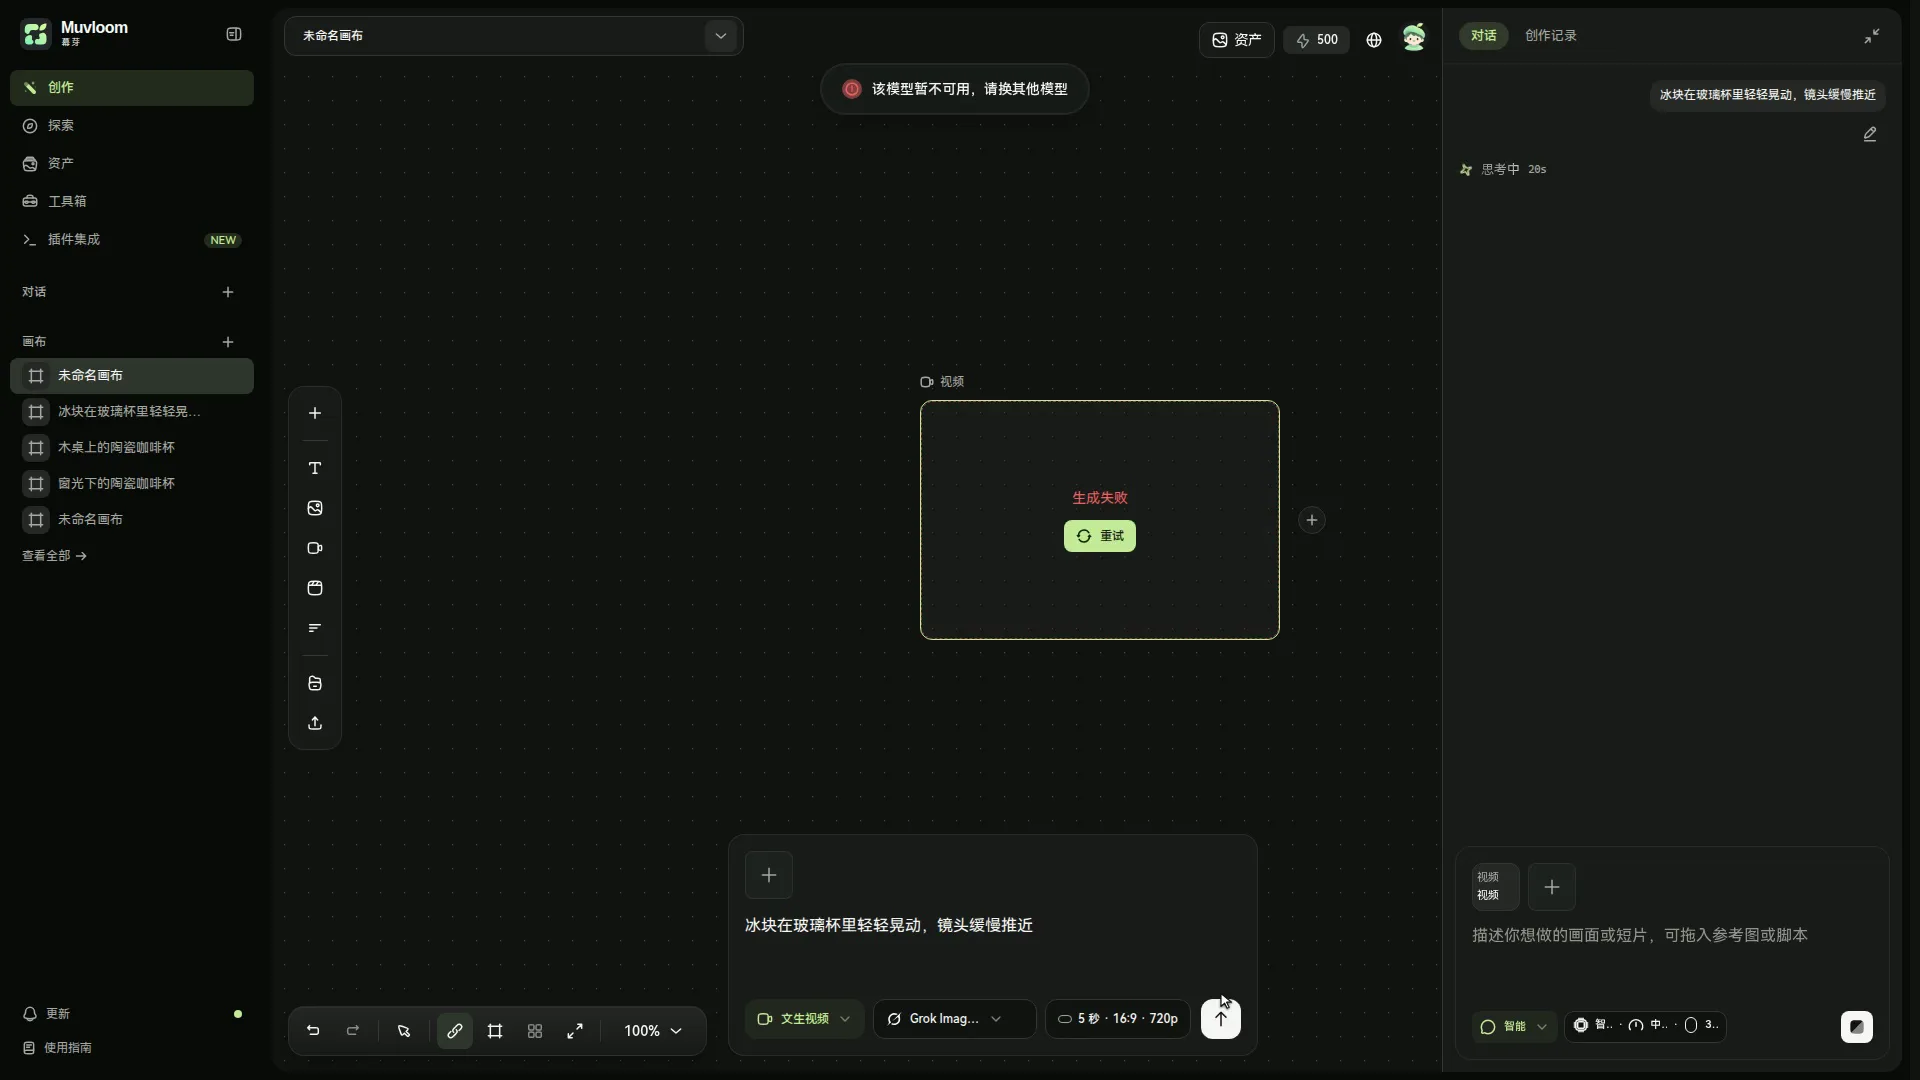
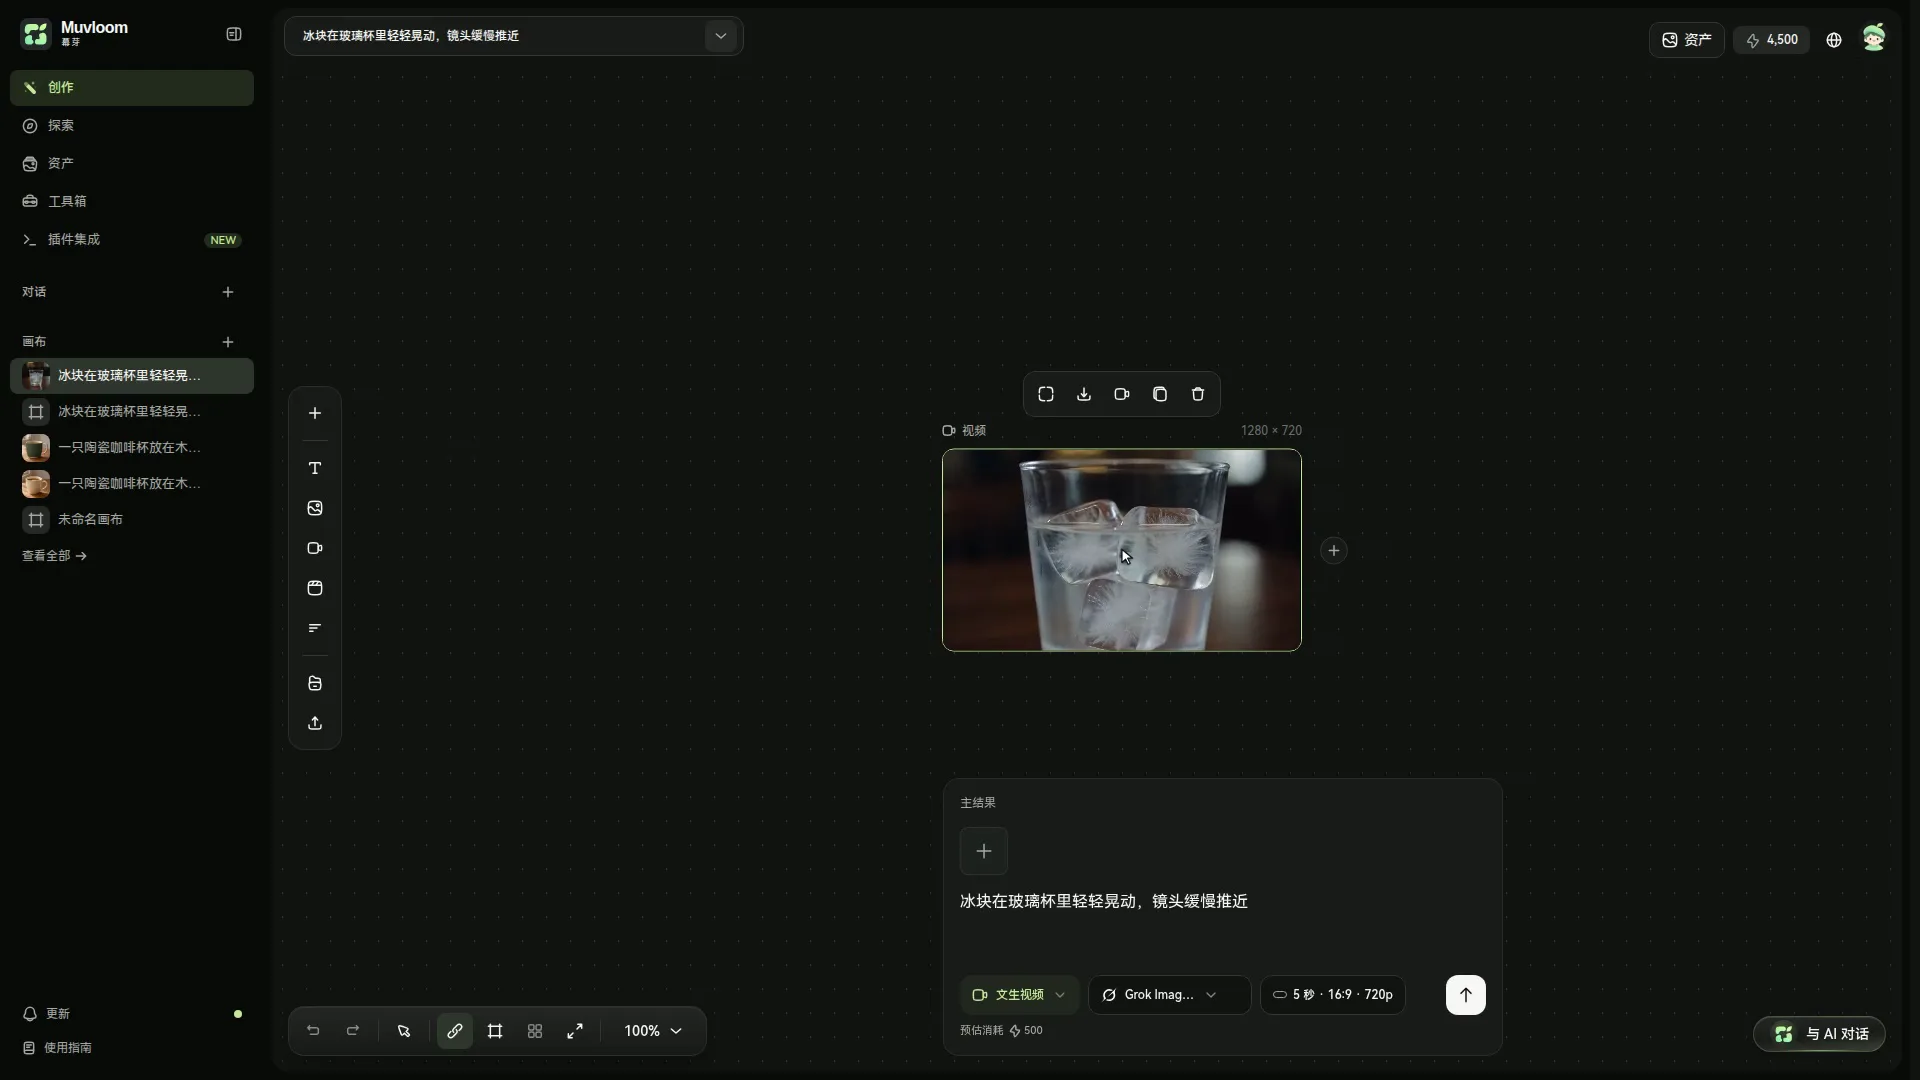
docs(web): 用测试环境真实出片替换视频演示
Grok Imagine Video 1.5 Lite 文生视频已生成并在画布上播放。指南页改为这次的请求和画面，不再把失败留证当成当前成片。

diff --git a/apps/web/src/features/guide/content/en.ts b/apps/web/src/features/guide/content/en.ts
@@ -722,7 +722,7 @@ const skills: GuidePage = {
 const videoPage: GuidePage = {
   id: 'video',
   title: 'Video',
-  summary: 'How a video job is submitted. This test ended on a model-unavailable error.',
+  summary: 'How a video job is submitted, and a 5 second clip that played on the canvas.',
   meta: {
     title: 'Video - Muvloom guide',
     description: 'Muvloom video duration, ratio, resolution and first frame.',
@@ -730,7 +730,7 @@ const videoPage: GuidePage = {
   updated,
   intro: [
     note(
-      'On 2026-11-10 Video generation was in the menu, default model Grok Imagine Video 1.5 Lite. Submitting from the home page opened a canvas project. The agent did not return a video. A canvas video node set to text-to-video, 5 seconds, 16:9, 720p, then Generate, showed the toast「该模型暂不可用，请换其他模型」and the node text「生成失败」. Queue request id `b980d817-4d94-42cc-9d8c-4ec89303764d`. Nothing played.',
+      'On 2026-11-10 a Grok Imagine Video 1.5 Lite job completed. Home page: Video generation, 5 seconds, 16:9, 720p, prompt「冰块在玻璃杯里轻轻晃动，镜头缓慢推近」. The agent did not return a video. A canvas node set to 文生视频, then Generate, became a 1280×720 clip. Play advanced to 0:05. Queue request id `8bd27a1b-7e18-47ee-8a3f-42813b66288e`.',
     ),
   ],
   sections: [
@@ -767,8 +767,8 @@ const videoPage: GuidePage = {
       blocks: [
         demo(
           '08-video',
-          'The video node shows 生成失败 and a toast that this model is unavailable',
-          '2026-11-10 test recording. The job was submitted. No video file was produced.',
+          'After text-to-video finishes, the canvas plays ice moving in a glass',
+          '2026-11-10 test recording. Grok Imagine Video 1.5 Lite, 5 seconds, 720p, played.',
         ),
         p(
           'A queued or running node means the job was accepted. Leaving the page does not cancel it. A failure is written on the node and the charge is returned. Extend and Edit video appear only on models that support them.',

diff --git a/apps/web/src/features/guide/content/zh/part2.ts b/apps/web/src/features/guide/content/zh/part2.ts
@@ -384,7 +384,7 @@ export const videoPage: GuidePage = {
       '[[视频生成]] 不在图片模型里。提交后会新建画布项目，任务出现在画布上。完整出片常常超过一分钟，界面先给进度，不要把「还在排队」当成失败。',
     ),
     note(
-      '2026-11-10 测试环境可以选择 [[视频生成]]，默认模型是 Grok Imagine Video 1.5 Lite。首页提交后进入 `/p/`。这次智能体没有交出成片。画布上把视频节点设为 [[文生视频]]，时长 [[5 秒]]、比例 [[16:9]]、清晰度 [[720p]]，点 [[生成]] 后，顶部出现「该模型暂不可用，请换其他模型」，节点写着「生成失败」。队列请求 id 是 `b980d817-4d94-42cc-9d8c-4ec89303764d`。没有可播放的视频。',
+      '2026-11-10 测试环境用 Grok Imagine Video 1.5 Lite 走通了一次。首页选 [[视频生成]]，[[5 秒]]、[[16:9]]、[[720p]]，提示词「冰块在玻璃杯里轻轻晃动，镜头缓慢推近」。智能体没有出片。画布上把视频节点设为 [[文生视频]] 再点 [[生成]]，节点变成 1280×720 的成片，点 [[播放]] 后进度走到 0:05。队列请求 id 是 `8bd27a1b-7e18-47ee-8a3f-42813b66288e`。',
     ),
   ],
   sections: [
@@ -427,8 +427,8 @@ export const videoPage: GuidePage = {
       blocks: [
         demo(
           '08-video',
-          '视频节点显示生成失败，顶部提示该模型暂不可用',
-          '2026-11-10 测试环境：文生视频已提交，模型暂不可用，没有成片',
+          '文生视频完成后，画布上播放冰块在杯中晃动',
+          '2026-11-10 测试环境：Grok Imagine Video 1.5 Lite，5 秒，720p，已播放',
         ),
         p(
           '进入项目后，视频节点或进度条出现即表示任务已提交。可以离开页面，回来再看。失败会写在节点上，积分按失败规则退回，不会留下一段黑屏冒充成片。下载在节点操作里。',

diff --git a/scripts/docs-videos/finish.py b/scripts/docs-videos/finish.py
@@ -555,6 +555,31 @@ def build_webm(names: list[str] | None = None) -> None:
         encode_webm(mp4, webm)
 
 
+def build_video() -> None:
+    """08：首页提交、画布文生视频、生成中，然后是成片播放。"""
+    spans = [
+        (HD / "08-gen.mp4", 5.4, 8.2, 1),
+        (HD / "08-gen.mp4", 15.2, 17.6, 1),
+        (HD / "08-gen.mp4", 34.6, 38.4, 1),
+        (HD / "08-gen.mp4", 42.0, 70.0, 16),
+        (HD / "08-gen.mp4", 74.4, 77.2, 1),
+        (HD / "08-play.mp4", 6.6, 11.3, 1),
+    ]
+    work = HD / "guide-build" / "08-video"
+    work.mkdir(parents=True, exist_ok=True)
+    parts: list[Path] = []
+    for index, (src, start, end, speed) in enumerate(spans):
+        part = work / f"{index:02d}.mp4"
+        encode_span(src, start, end, speed, part)
+        parts.append(part)
+    mp4 = OUT / "08-video.mp4"
+    concat(parts, mp4)
+    duration = probe(mp4)
+    poster(mp4, OUT / "08-video-poster.webp", max(0.4, duration - 1.2))
+    print("08-video", round(duration, 2), "MB", round(mp4.stat().st_size / 1048576, 2))
+    encode_webm(mp4, OUT / "08-video.webm")
+
+
 def build_inpaint() -> None:
     """09 的母带是两段：编辑器里的框选，和出片后的墨绿杯。"""
     spans = [
@@ -581,6 +606,9 @@ def build_inpaint() -> None:
 def main() -> None:
     OUT.mkdir(parents=True, exist_ok=True)
     only = sys.argv[1:]
+    if only == ["08"]:
+        build_video()
+        return
     if only == ["09"]:
         build_inpaint()
         return
